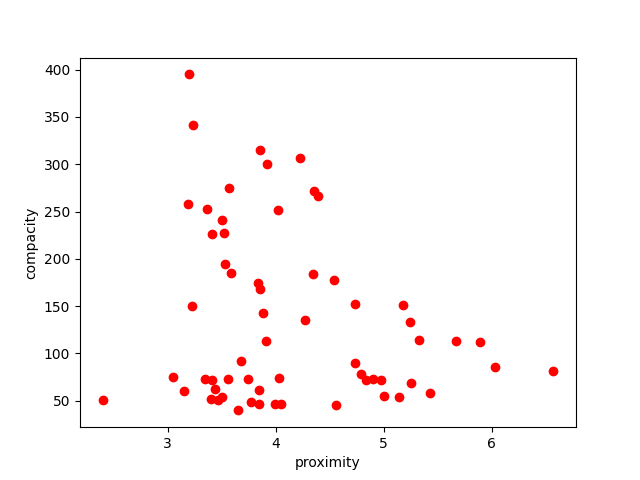
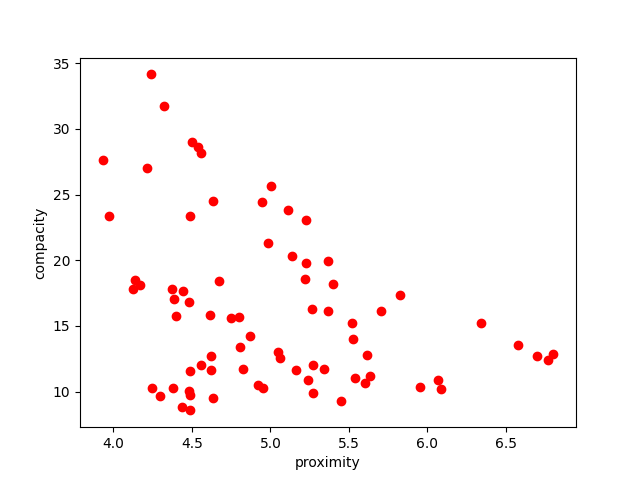
seed

diff --git a/main.py b/main.py
@@ -17,8 +17,6 @@ USAGE_MAP_PATH = "Usage_map.txt"
 MAP_COST_RATIO = 10000
 BUDGET = 500000
 
-random.seed(42)
-
 # TEST MAP PARAMETERS
 TEST_MAP_PATH = "20x20_"
 TEST_MAP_DIMENSION = (20, 20)
@@ -169,8 +167,7 @@ def plot_pareto(population):
 
     # ax.scatter([0], [0], [0], c='g', picker=True, pickradius=5)
 
-   #ax.scatter([s[1] for s in population_avec_score_normalise], [s[2] for s in population_avec_score_normalise],
-               #[s[3] for s in population_avec_score_normalise], c='b', picker=True, pickradius=0.1)
+    #ax.scatter([s[1] for s in population_avec_score_normalise], [s[2] for s in population_avec_score_normalise], [s[3] for s in population_avec_score_normalise], c='b', picker=True, pickradius=0.1)
     ax.scatter([s[1] for s in pareto_frontier], [s[2] for s in pareto_frontier], [s[3] for s in pareto_frontier], c='r',
                picker=True, pickradius=0.1)
     # ax.legend()
@@ -196,9 +193,9 @@ def plot_pareto(population):
 def onpick(event, normalise):
     ind = event.ind
 
-    print(ind)
+    #print(ind)
     solution = normalise[ind[0]][0]
-    print(solution)
+    #print(solution)
     plot_solution(solution)
 
 
@@ -246,8 +243,7 @@ def compacite(solution):
     milieuX = sum(plot[0] for plot in solution) / len(solution)
     milieuY = sum(plot[1] for plot in solution) / len(solution)
     # Critère à être minimiser
-    return sum(((plot[0] - milieuX) ** 2 + (plot[1] - milieuY) ** 2)**(1/2) for plot in solution)
-
+    return sum(((plot[0] - milieuX)**2 + (plot[1] - milieuY)**2)**(1/2) for plot in solution) / len(solution)
 
 def proximite(solution):
     """ Computes the mean of the euclidian distance of a bought parcel and inhabited zone
@@ -271,8 +267,11 @@ def solution_generator():
     """
     bought_plot = []
     # vérifie le buget
+    i=0
     while cost_bought_plot(bought_plot) < BUDGET:
         # obtenir un index aléatoire dans le tableau aplati
+        np.random.seed(18+i)
+        i+=1
         new_plot_flat_index = np.random.choice(COST_MAP.size)
         # convertir l'index aplati en indices de ligne et de colonne
         new_plot_index = np.unravel_index(new_plot_flat_index, COST_MAP.shape)
@@ -320,17 +319,10 @@ def reproduction(parent1, parent2):
             child2.append(parcel)
     # Si l'enfant est vide, ne pas effectuer la reproduction
     child1.extend(double_solutions), child2.extend(double_solutions)
-    if not child1 or not child2:
-        print('probleme reprodcution 2')
-        return None, None
     while cost_bought_plot(child1) > BUDGET:
         child1.pop()
     while cost_bought_plot(child2) > BUDGET:
         child2.pop()
-    while cost_bought_plot(child1) < BUDGET - 80000:
-        child1.append((random.randint(0, 69), random.randint(0, 169)))
-    while cost_bought_plot(child2) < BUDGET - 80000:
-        child2.append((random.randint(0, 69), random.randint(0, 169)))
     return list(set(child1)), list(set(child2))
 
 
@@ -340,11 +332,16 @@ def reproduction_population(population):
     Args:
         population: set of solutions
     """
-    for i in range(0, len(population) - 10, 2):
+    for i in range(0, len(population), 2):
         # Selection of the parents
+        random.seed(21+i)
         random1 = random.randint(0, len(population) - 1)
+        random.seed(29+i)
         random2 = random.randint(0, len(population) - 1)
+        j=0
         while random1 == random2:
+            random.seed(35+j)
+            j+=1
             random2 = random.randint(0, len(population) - 1)
 
         parent1 = population[random1]
@@ -362,17 +359,25 @@ def reproduction_population(population):
 
 def mutation_population(population):
     nouvelle_solution_mutee = []
+    i=0
     for solution in population:
         copie_solution = copy.deepcopy(solution)
-
+        np.random.seed(42+i)
+        i+=1
         new_plot_flat_index = np.random.choice(COST_MAP.size)
         new_plot_index = np.unravel_index(new_plot_flat_index, COST_MAP.shape)
+        j=0
         while USAGE_MAP[new_plot_index] != 0 or new_plot_index in copie_solution:
+            np.random.seed(51+j)
+            j+=1
             new_plot_flat_index = np.random.choice(COST_MAP.size)
             new_plot_index = np.unravel_index(new_plot_flat_index, COST_MAP.shape)
 
         copie_solution.append(new_plot_index)
+        j=0
         while cost_bought_plot(copie_solution) > BUDGET:
+            random.seed(67+j)
+            j+=1
             copie_solution.pop(random.randint(0, len(copie_solution) - 1))
         nouvelle_solution_mutee.append(copie_solution)
 
@@ -618,8 +623,7 @@ def find_double_sublists(lst):
     print(double_sublists)
 
 
-
-def electre(population_finale, poids_compacite = 0.33, poids_proximite = 0.33, poids_production = 0.33):
+def electre(population_finale, poids_compacite = 0.0, poids_proximite = 0.0, poids_production = 1.0):
     population_avec_score_normalise = population_with_normalized_score(population_finale)
     pareto_frontier, population_avec_score_normalise = get_pareto_frontier(
         population_avec_score_normalise)
@@ -649,19 +653,21 @@ if __name__ == "__main__":
     """2: INITIAL POPULATION """
 
     # Generate initial population randomly ⇾ cover as much as possible the solution space
-    population_amelioree = genetic_algorithm(500, 400)
-    print(population_amelioree[0])
+    population_amelioree = genetic_algorithm(300, 300)
     # Determine the dominant solutions
     # Plot the frontier and generate csv files
 
     """3: MCDA: ELECTRE or PROMETHEE"""
 
-    #poids_proximite = int(input("poids proximité (33% si rien):"))
-    #poids_compacite = int(input("poids compacité (33% si rien):"))
-    #poids_production = 1 - poids_compacite - poids_proximite
     solution_finale = electre(population_amelioree)
-    print(solution_finale)
     plot_solution(solution_finale)
-
-
+    """
+    true = True
+    while true:
+        poids_compacite = float(input("poids compacité (33% si rien):"))
+        poids_proximite = float(input("poids proximité (33% si rien):"))
+        poids_production = float(input("poids production (33% si rien):"))
+        solution_finale = electre(population_amelioree, poids_compacite, poids_proximite, poids_production)
+        plot_solution(solution_finale)
+"""
     # Rank the solutions from the Pareto Frontier according to ELECTRE/PROMETHEE.
